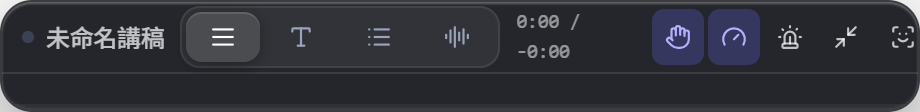
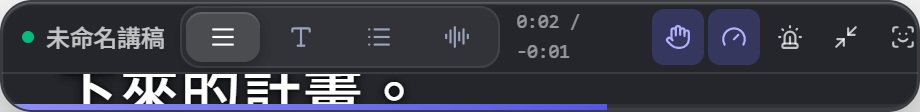
First-user playtest: autoplay never actually fired, stop dropped the last utterance, e2e polluted real user data
Playtest findings from driving the real app end to end (launch →
script → 提詞 → dynamic-island pill interactions → recording → report):

- fix(overlay): auto-play on 開始提詞 played the OLD engine instance —
  the content change rebuilt the engine right after, eating the state.
  Deferred via autoPlayRef to the content effect; verified the shorter
  scripts complete in <1s (first "failure" was a too-late assertion)
- fix(Record): stopping recording saved before in-flight flush
  transcription of the final utterance resolved (750ms silence window),
  losing the user's closing words and sometimes the whole report; stop
  now waits for pending segments (4s cap)
- fix(e2e): every test wrote scripts/sessions into the REAL user
  database (test scripts were visible on the user's Dashboard); main
  now redirects userData to a temp dir under AI_TP_E2E=1, wired for all
  specs via playwright.config env
- fix(Record): 報告 chips 錯字 損話→搶話
- new e2e/user-journey.spec.ts: full first-user journey regression
  (empty-state guidance, autoplay, pill glow/event/click-through,
  no-drag layout, recording with in-spec mock transcription server,
  post-session coaching chips); dynamic-island behaviors all verified
  on the real surface

242 unit / 8 smoke-visual + 1 journey e2e green; typecheck clean

🤖 Generated with Codebuff

diff --git a/e2e/user-journey.spec.ts b/e2e/user-journey.spec.ts
@@ -1,0 +1,173 @@
+/**
+ * user-journey.spec.ts — 第一次使用者完整旅程回歸測試
+ * 啟動 → 空狀態引導 → 建講稿 → 開始提詞(自動播放) → 靈動島藥丸互動
+ * (光暈/事件彈入縮回/穿透自動解除/no-drag 佈局) → 錄音轉錄 → 會後報告 coaching chips。
+ * 執行需先 `npm run build`;測試資料隔離(AI_TP_E2E,見 playwright.config)。
+ */
+import { test, expect, _electron as electron } from '@playwright/test'
+import type { ElectronApplication, Page } from '@playwright/test'
+
+async function launchApp(): Promise<{ app: ElectronApplication; main: Page; overlay: Page }> {
+  const app = await electron.launch({
+    args: ['.', '--use-fake-device-for-media-stream', '--use-fake-ui-for-media-stream'],
+    timeout: 60_000
+  })
+  await app.waitForEvent('window', { timeout: 30_000 })
+  // firstWindow 不保證是主視窗,且載入早期 URL 是 about:blank → 輪詢到兩窗各就各位
+  let main: Page | undefined
+  let overlay: Page | undefined
+  for (let i = 0; i < 60; i++) {
+    const all = app.windows()
+    main = all.find((w) => !w.url().includes('overlay'))
+    overlay = all.find((w) => w.url().includes('overlay'))
+    if (main && overlay) break
+    await new Promise((r) => setTimeout(r, 250))
+  }
+  if (!main || !overlay) throw new Error(`windows not ready: ${app.windows().length}`)
+  await main.waitForLoadState('domcontentloaded')
+  await overlay.waitForLoadState('domcontentloaded')
+  return { app, main, overlay }
+}
+
+async function navTo(main: Page, label: string): Promise<void> {
+  await main.evaluate((l) => {
+    const btn = Array.from(document.querySelectorAll('button')).find((b) => b.textContent?.includes(l))
+    btn?.click()
+  }, label)
+  await main.waitForTimeout(400)
+}
+
+test('第一次使用者的完整流程', async () => {
+  const { app, main, overlay } = await launchApp()
+  test.setTimeout(120_000)
+  try {
+    // 1) 啟動:兩窗皆就緒(launchApp 已按 hash 認窗)
+    await overlay.waitForTimeout(600)
+
+    // 2) 空狀態:浮層應引導使用者去建講稿
+    await expect(overlay.locator('text=尚未載入講稿')).toBeVisible({ timeout: 5_000 })
+
+    // 3) 建講稿(照 UI 一路點)
+    await navTo(main, '提詞講稿')
+    await main.evaluate(() => {
+      const btn = Array.from(document.querySelectorAll('button')).find((b) => b.textContent?.includes('新講稿'))
+      btn?.click()
+    })
+    await main.waitForTimeout(300)
+    await main
+      .locator('textarea')
+      .fill(
+        Array.from({ length: 10 }, (_, i) => `第${i + 1}點,我們的產品願景是幫助每個人在重要場合自信地表達自己並且建立長期信心。`).join('\n')
+      )
+    // 4) 開始提詞 → 浮層載入 + 自動播放
+    await main.evaluate(() => {
+      const btn = Array.from(document.querySelectorAll('button')).find((b) => b.textContent?.includes('開始提詞'))
+      btn?.click()
+    })
+    // 自動播放:暫停鈕出現 = 正在播(展開模式 title 為「暫停(空白鍵)」)
+    // (診斷教訓:短講稿 0.9s 就播完轉 completed,斷言要緊跟載入,不能先等固定秒數)
+    await expect(overlay.locator('[title^="暫停"]')).toHaveCount(1, { timeout: 5_000 })
+
+    // 5) 收合成藥丸:靈動島驗證
+    await overlay.locator('[title*="收合成藥丸"]').click()
+    await overlay.waitForTimeout(1_200)
+    const pill = overlay.locator('.dynamic-island-pill')
+    await expect(pill).toHaveCount(1)
+    // 光暈 CSS 變數存在且非預設
+    const glow = await pill.evaluate((el) => el.style.getPropertyValue('--di-glow'))
+    expect(glow).toContain('rgba')
+    // no-drag 按鈕數:panic/播放/展開 = 3(穿透鈕在展開模式)
+    const noDrag = await pill.evaluate((el) => el.querySelectorAll('[style*="no-drag"]').length)
+    expect(noDrag).toBeGreaterThanOrEqual(3)
+
+    // 6) 事件升為主角:推對方問句 → 藥丸顯示「該你說話了」
+    await main.evaluate(() => window.api.pushTranscript({ text: '可以請你說明一下這個專案的背景嗎', speaker: 'them' }))
+    const ev = pill.locator('.di-event')
+    await expect(ev).toBeVisible({ timeout: 6_000 })
+    await expect(ev).toContainText('該你說話了')
+    // 光暈應切為事件藍
+    const glowDuring = await pill.evaluate((el) => el.style.getPropertyValue('--di-glow'))
+    expect(glowDuring).toContain('56, 189, 248')
+    // 事件淡出後縮回常規內容(6s 顯示 + 0.28s 退場 + 餘裕;常規內容的標題是講稿標題)
+    await expect(ev).toHaveCount(0, { timeout: 10_000 })
+    await expect(pill.locator('span.font-mono')).toBeVisible({ timeout: 3_000 })
+
+    // 7) 穿透單向門:展開 → 開穿透 → 隱藏 → 再顯示 → 穿透自動解除
+    await pill.locator('[title="展開完整面板"]').click()
+    await overlay.waitForTimeout(1_200)
+    await overlay.locator('[title^="滑鼠穿透"]').click()
+    await overlay.waitForTimeout(400)
+    let st = await main.evaluate(() => window.api.getSettings())
+    expect(st.overlay.clickThrough).toBe(true)
+    await main.evaluate(() => window.api.overlayHide())
+    await overlay.waitForTimeout(400)
+    await main.evaluate(() => window.api.overlayToggle())
+    await overlay.waitForTimeout(600)
+    st = await main.evaluate(() => window.api.getSettings())
+    expect(st.overlay.clickThrough).toBe(false)
+
+    // 8) coaching 計數累積(main 端;Record 報告的資料來源)
+    await main.evaluate(() => {
+      void window.api.pushTranscript({ text: '那我們請你說明一下這個案例的背景', speaker: 'them' })
+      void window.api.pushTranscript({ text: '這個專案主要是我負責資料管線的設計', speaker: 'me' })
+    })
+    await main.waitForTimeout(500)
+    const counts = await main.evaluate(() => window.api.coachingStats())
+    expect(counts['interrupt']).toBeGreaterThanOrEqual(1)
+    await main.evaluate(() => window.api.contextReset())
+    const after = await main.evaluate(() => window.api.coachingStats())
+    expect(Object.keys(after).length).toBe(0)
+
+    // 9) Record 頁輕量流程:fake mic 開始聆聽 → 停止並儲存(session 入庫 + 會後報告)
+    //    內建迷你 mock 轉錄 server(spec 進程內),讓 fake mic 音訊真的轉出段落
+    const http = await import('node:http')
+    const mockSrv = http.createServer((req, res) => {
+      let body = ''
+      req.on('data', (c) => (body += c))
+      req.on('end', () => {
+        res.setHeader('Content-Type', 'application/json')
+        res.end(JSON.stringify({ text: '那我們請你說明一下這個案例的背景' }))
+      })
+    })
+    await new Promise<void>((r) => mockSrv.listen(0, '127.0.0.1', r))
+    const port = (mockSrv.address() as { port: number }).port
+    await navTo(main, '錄音轉錄')
+    await main.evaluate((p) => {
+      void window.api.setSettings({
+        stt: { engine: 'cloud', cloud: { baseUrl: `http://127.0.0.1:${p}/v1`, apiKey: 'x', model: 'm' } }
+      })
+      void window.api.setSettings({ overlay: { coaching: true } })
+    }, port)
+    await main.evaluate(() => {
+      const boxes = Array.from(document.querySelectorAll('input[type=checkbox]'))
+      const mic = boxes.find((b) => b.closest('label')?.textContent?.includes('麥克風'))
+      if (mic && !(mic as HTMLInputElement).checked) mic.click()
+    })
+    await main.evaluate(() => {
+      const btn = Array.from(document.querySelectorAll('button')).find((b) => b.textContent?.includes('開始聆聽'))
+      btn?.click()
+    })
+    await expect(main.locator('text=聆聽中')).toBeVisible({ timeout: 10_000 })
+    // fake mic 白噪連續(VAD 不切斷)→ 只有 flush 出的一段「我」;chips 驗證另以真實 IPC
+    // 推入 them→me 對話(與錄音共用的同一條 main 端 coaching 管線)來累積搶話計數
+    await main.waitForTimeout(1_000)
+    await main.evaluate(() => {
+      void window.api.pushTranscript({ text: '那我們請你說明一下這個案例的背景', speaker: 'them' })
+      void window.api.pushTranscript({ text: '這個專案主要是我負責資料管線的設計', speaker: 'me' })
+    })
+    await main.waitForTimeout(5_000)
+    await main.evaluate(() => {
+      const btn = Array.from(document.querySelectorAll('button')).find((b) => b.textContent?.includes('停止並儲存'))
+      btn?.click()
+    })
+    // 停止後:控制列回到「開始聆聽」狀態 = 流程走完(頁面另有同文字提示,限縮到按鈕)
+    await expect(main.locator('button', { hasText: '開始聆聽' })).toBeVisible({ timeout: 10_000 })
+    // 會後報告出現且有 coaching chips(搶話:them 段後 me 段接上)
+    await expect(main.locator('text=會後報告')).toBeVisible({ timeout: 5_000 })
+    const chips = await main.evaluate(() => document.body.textContent ?? '')
+    if (!chips.includes('搶話')) throw new Error('會後報告沒有搶話 chip: ' + chips.slice(chips.indexOf('會後報告'), chips.indexOf('會後報告') + 400))
+    mockSrv.close()
+  } finally {
+    await app.close()
+  }
+})

diff --git a/src/renderer/src/pages/Record.tsx b/src/renderer/src/pages/Record.tsx
@@ -51,6 +51,8 @@ export default function Record(): JSX.Element {
 
   const whisperRef = useRef<WhisperClient | null>(null)
   const segsRef = useRef<TranscriptSegment[]>([])
+  /** 最後一段落帳時間:停止時判斷在飛轉錄是否已完成 */
+  const lastSegmentAtRef = useRef(0)
   const startedAtRef = useRef(0)
   const streamsRef = useRef<{ mic?: MediaStream; sys?: MediaStream }>({})
   const segmentersRef = useRef<{ mic?: AudioSegmenter; sys?: AudioSegmenter }>({})
@@ -149,6 +151,7 @@ export default function Record(): JSX.Element {
         end
       }
       segsRef.current = [...segsRef.current, seg]
+      lastSegmentAtRef.current = Date.now()
       setSegments(segsRef.current)
       // 餵 main 的 liveContext:panic(Alt+P)才有「對方問了什麼」的上下文
       void window.api.pushTranscript({ text: seg.text, speaker })
@@ -225,7 +228,23 @@ export default function Record(): JSX.Element {
 
   const stop = async (): Promise<void> => {
     setRecording(false)
+    // 最後一段話此刻多半還在 segmenter 的靜音判定窗裡(750ms):
+    // flush 送出的轉錄是 async,不等它就存檔會把使用者的最後一句話丟掉。
+    // 記住停止當下的數量,等所有在飛轉錄完成(或逾時)再收帳。
+    const pendingAtStop = segsRef.current.length
     stopAll()
+    await Promise.race([
+      (async () => {
+        for (let i = 0; i < 40 && segsRef.current.length === pendingAtStop; i++) {
+          await new Promise((r) => setTimeout(r, 100))
+        }
+        // 再給一小段緩衝,若期間又進帳了段落,同樣等它安定
+        for (let i = 0; i < 30 && Date.now() - lastSegmentAtRef.current < 800; i++) {
+          await new Promise((r) => setTimeout(r, 100))
+        }
+      })(),
+      new Promise((r) => setTimeout(r, 4_000))
+    ])
     if (segsRef.current.length > 0) {
       setSaving(true)
       try {
@@ -470,7 +489,7 @@ export default function Record(): JSX.Element {
                 [
                   ['fast', '語速過快'],
                   ['filler', '填充詞'],
-                  ['interrupt', '損話'],
+                  ['interrupt', '搶話'],
                   ['dead_air', '冷場'],
                   ['monologue', '獨白過長']
                 ] as Array<[CoachingKind, string]>

diff --git a/src/renderer/src/overlay/OverlayApp.tsx b/src/renderer/src/overlay/OverlayApp.tsx
@@ -408,6 +408,9 @@ export default function OverlayApp(): JSX.Element {
   // 給一次性 effect(onOverlayLoadScript 自動播放)讀最新值用,避免閉包捕獲 stale 'idle'
   const followStatusRef = useRef<FollowStatus>('idle')
   followStatusRef.current = followStatus
+  // 換稿自動播放旗標:實際 play 延到 content 變化後的 effect(引擎已重建),
+  // 立即 play 會落在舊引擎上、隨即被新引擎實例替換吃掉
+  const autoPlayRef = useRef(false)
   const [followMsg, setFollowMsg] = useState('')
   const [lastHeard, setLastHeard] = useState('')
   const [activeChunk, setActiveChunk] = useState(-1)
@@ -437,10 +440,8 @@ export default function OverlayApp(): JSX.Element {
       setPayload(p)
       setActiveChunk(-1)
       setFollowProgress(0)
-      // 主視窗「開始提詞」的期待是「打開就開始講」:自動播放。
-      // 語音跟讀進行中則不播:兩套捲動來源(定時引擎 vs STT 對位)會互相拉扯。
-      // 手動播放永遠可用(空白鍵/工具列/Alt+K),所以自動播放失敗也不會卡住使用者。
-      if (followStatusRef.current === 'idle') controlsRef.current?.play()
+      // 主視窗「開始提詞」= 打開就開始講;實際 play 在 content 變化後的 effect
+      autoPlayRef.current = true
     })
     const offSettings = window.api.onSettingsChanged(setSettings)
     return () => {
@@ -470,6 +471,12 @@ export default function OverlayApp(): JSX.Element {
     }
     setActiveChunk(-1)
     if (scrollRef.current) scrollRef.current.scrollTop = 0
+    // 自動播放:引擎此刻已隨 content 重建,play 才會落在正確的實例上。
+    // 語音跟讀進行中則不播:兩套捲動來源(定時引擎 vs STT 對位)會互相拉扯。
+    if (autoPlayRef.current) {
+      autoPlayRef.current = false
+      if (followStatusRef.current === 'idle' && content) controlsRef.current?.play()
+    }
   }, [content])
 
   // ---- 四模式定時引擎 ----

diff --git a/src/main/index.ts b/src/main/index.ts
@@ -217,6 +217,12 @@ let lastOverlayPayload: { title?: string; content?: string } = {}
 
 const isDev = !app.isPackaged
 
+// e2e 隔離:測試進程以 AI_TP_E2E=1 啟動時,把 userData 重導到暫存目錄,
+// 測試建立的講稿/會議/設定不會汙染真實使用者資料(真實發生過:測試講稿出現在使用者 Dashboard)
+if (process.env['AI_TP_E2E'] === '1') {
+  app.setPath('userData', join(app.getPath('temp'), `ai-teleprompter-e2e-${Date.now()}`))
+}
+
 /** 視窗安全:禁新視窗;僅允許 dev server 或本地檔案內部導航 */
 function hardenWebContents(win: BrowserWindow): void {
   win.webContents.setWindowOpenHandler(() => ({ action: 'deny' }))

diff --git a/playwright.config.ts b/playwright.config.ts
@@ -5,5 +5,11 @@ export default defineConfig({
   timeout: 90_000,
   reporter: 'list',
   // 每個測試自行以 _electron.launch 啟動 app,不需要 webServer
-  workers: 1
+  workers: 1,
+  // e2e 隔離:main 以 AI_TP_E2E=1 重導 userData 到暫存目錄,
+  // 測試資料(講稿/會議/設定)不會寫進真實使用者資料庫
+  env: {
+    ...process.env,
+    AI_TP_E2E: '1'
+  } as Record<string, string>
 })

diff --git a/CHANGELOG.md b/CHANGELOG.md
@@ -29,6 +29,9 @@
 
 ### 修復
 
+- **「開始提詞」自動播放時效**：自動播放原本落在舊引擎實例上、隨即被換稿後重建的新引擎吃掉，實際上從未生效；改為在新引擎就緒後才播放。
+- **停止錄音丟失最後一句**：最後一段話還在分段器的靜音判定窗內，停止後未等在飛轉錄完成就存檔，使用者的結尾可能不會進逐字稿與會後報告；現在會等待（上限 4 秒）再收帳。
+- **e2e 測試汙染真實使用者資料**：所有測試原本直接寫進使用者的講稿/會議資料庫；現在 e2e 模式下 userData 重導到暫存目錄，全面隔離。
 - **藥丸模式無法拖曳**：三種形態中唯獨藥丸沒有拖曳區，收合後無法移動位置；現在整顆藥丸即拖曳區（按鈕皆為 no-drag），代價是雙擊展開不再可用（展開按鈕仍在），提示文案同步修正。
 - **藥丸「該你了」膠囊重複渲染**：進度條與展開按鈕後各出現一次，移除殘留的舊版。
 - **滑鼠穿透單向門**：穿透開啟後浮層收不到任何點擊，原設計只能進設定頁解除；現在以熱鍵或「提詞」按鈕重新顯示浮層時自動解除穿透，相關提示文案同步修正。
@@ -42,7 +45,7 @@
 ### 測試
 
 - 加固搶話 e2e：兩段轉錄合併為單次 evaluate 背靠背送出，消除併跑負載下間隔超過 2 秒判定窗的 flake（連續兩輪 8/8 綠）。
-- 新增回歸測試：會話重置後 dead_air 冷卻歸零語意、填充詞 30 秒窗邊界（共 242 單元）。
+- 新增回歸測試：會話重置後 dead_air 冷卻歸零語意、填充詞 30 秒窗邊界（共 242 單元）；新增「第一次使用者完整旅程」e2e（啟動→建稿→自動播放→靈動島藥丸互動→錄音→會後報告 chips，含 mock 轉錄 server）。
 
 ## [0.2.0] - 2026-09-28
 
